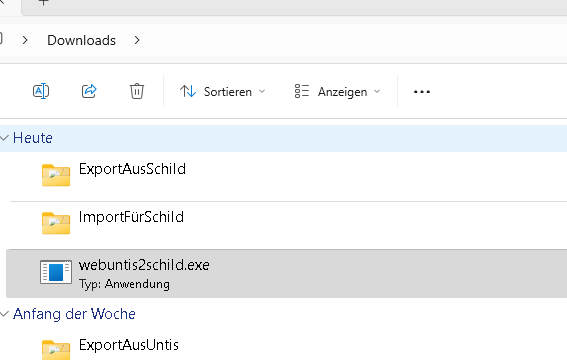
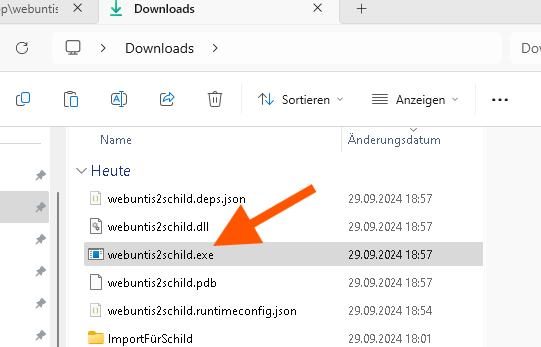
...

diff --git a/webuntis2schild/obj/Release/net8.0/webuntis2schild.AssemblyInfo.cs b/webuntis2schild/obj/Release/net8.0/webuntis2schild.AssemblyInfo.cs
@@ -14,7 +14,7 @@ using System.Reflection;
 [assembly: System.Reflection.AssemblyCompanyAttribute("webuntis2schild")]
 [assembly: System.Reflection.AssemblyConfigurationAttribute("Release")]
 [assembly: System.Reflection.AssemblyFileVersionAttribute("1.0.0.0")]
-[assembly: System.Reflection.AssemblyInformationalVersionAttribute("1.0.0+7ac4ffdd37fe900ff11da2ae1b1f50af1aedc1ce")]
+[assembly: System.Reflection.AssemblyInformationalVersionAttribute("1.0.0+13737d3e811f3c2f5cf7e19d9388972e9f9bf400")]
 [assembly: System.Reflection.AssemblyProductAttribute("webuntis2schild")]
 [assembly: System.Reflection.AssemblyTitleAttribute("webuntis2schild")]
 [assembly: System.Reflection.AssemblyVersionAttribute("1.0.0.0")]

diff --git a/README.md b/README.md
@@ -6,12 +6,12 @@ Mit **_Webuntis2SchILD_** können Daten von Untis und Webuntis nach SchILD über
 
 Der Übertrag der Leistungsdaten ist 3x im Jahr sinnvoll:
 
-- Statistik
-- Halbjahreszeugnis 
-- Jahreszeugnis
+1. Statistik
+2. Halbjahreszeugnis 
+3. Jahreszeugnis
 
 Vor den Zeugniskonferenzen kann **_Webuntis2SchILD_** wunderbar dafür eingesetzt werden, insbesondere Noten nach SchILD zu übertragen. Dazu müssen alle Lehrkräfte ihre Zeugnisnoten als Gesamtnoten in Webuntis eintragen. 
-Abwesenheiten werden ebenfalls nach SchILD übertragen. Der Einsatz eines weiteren Programms zum Einsammeln der Noten ist nicht mehr erforderlich.
+Abwesenheiten werden ebenfalls nach SchILD übertragen. Der Einsatz eines weiteren Programms zum Einsammeln der Noten ist nicht erforderlich.
 
 ![Gesamtnoten](https://github.com/stbaeumer/webuntis2schild/blob/main/bilder/gesamtnoten.png?raw=true)
 
@@ -32,7 +32,7 @@ Stellen Sie diese Ordnerstruktur in Ihrem Download-Ordner her:
 
 **So wird es gemacht:**
 
-Exportieren Sie die Datei `Student_<...>.csv` frisch aus Webuntis, indem Sie als Administrator:
+### Exportieren Sie die Datei `Student_<...>.csv` frisch aus Webuntis, indem Sie als Administrator:
 
 - Stammdaten > Schülerinnen
 - "Berichte" auswählen
@@ -41,7 +41,7 @@ Exportieren Sie die Datei `Student_<...>.csv` frisch aus Webuntis, indem Sie als
 
 ![Stammdaten](https://github.com/stbaeumer/webuntis2schild/blob/main/bilder/stammdaten.png?raw=true)
 
-Exportieren Sie die Datei `MarksPerLesson_<...>.csv` frisch aus Webuntis, indem Sie als Administrator:
+### Exportieren Sie die Datei `MarksPerLesson_<...>.csv` frisch aus Webuntis, indem Sie als Administrator:
 
 - Klassenbuch > Berichte klicken
 - Alle Klassen auswählen und ggfs. den Zeitraum einschränken
@@ -52,7 +52,7 @@ Exportieren Sie die Datei `MarksPerLesson_<...>.csv` frisch aus Webuntis, indem 
 
 ![Noten](https://github.com/stbaeumer/webuntis2schild/blob/main/bilder/noten.png?raw=true)
 
-Exportieren Sie die Datei `AbsencePerStudent_<...>.csv` frisch aus Webuntis, indem Sie als Administrator:
+### Exportieren Sie die Datei `AbsencePerStudent_<...>.csv` frisch aus Webuntis, indem Sie als Administrator:
 
 - Klassenbuch > Berichte klicken
 - Alle Klassen auswählen und als Zeitraum am besten die letzen vier Wochen wählen
@@ -63,7 +63,7 @@ Exportieren Sie die Datei `AbsencePerStudent_<...>.csv` frisch aus Webuntis, ind
 
 ![Klassenbuch Berichte](https://github.com/stbaeumer/webuntis2schild/blob/main/bilder/abwesenheiten.png?raw=true)
 
-Exportieren Sie die Datei `GPU006.TXT` frisch aus Webuntis, indem Sie als Administrator:
+### Exportieren Sie die Datei `GPU006.TXT` frisch aus Webuntis, indem Sie als Administrator:
 
 - Datei > Import/Export > Export TXT > Fächer klicken
 - Trennzeichen: Semikolon, Textbegrenzung: ", Encoding :UTF8
@@ -71,23 +71,24 @@ Exportieren Sie die Datei `GPU006.TXT` frisch aus Webuntis, indem Sie als Admini
 	
 ![Untis Export](https://github.com/stbaeumer/webuntis2schild/blob/main/bilder/gpu.png?raw=true)
 
-Exportieren Sie die Dateien `Faecher.dat`, `SchuelerLeistungsdaten.dat` und `SchuelerLernabschnittsdaten.dat` frisch aus Webuntis, indem Sie als Administrator:
+### Exportieren Sie die Dateien `Faecher.dat`, `SchuelerLeistungsdaten.dat` und `SchuelerLernabschnittsdaten.dat` frisch aus Webuntis, indem Sie als Administrator:
 
 - Datenaustausch > Schnittstelle > Export klicken.
 - Alle Dateien abhaken und dann die drei Dateien `Faecher.dat`, `SchuelerLeistungsdaten.dat` und `SchuelerLernabschnittsdaten.dat` auswählen
 - Den Export-Ordner auswählen
 - Die Dateien im Ordner `ExportAusSchild` speichern"); 
 
-## Installation
+## Herunterladen des Programms
 
-Das Programm kann in github heruntergeladen werden. Eine Installation ist nicht notwendig. 
-Das Programm kann mit Doppelklick gestartet werden:
+Laden Sie alle Dateien aus dem *exe*-Ordner herunter. Also: *webuntis2schild.exe*, *webuntis2schild.dll* usw. Eine Installation ist nicht notwendig. 
+**_Webuntis2SchILD_** kann mit Doppelklick gestartet werden:
 
 ![Programm starten](https://github.com/stbaeumer/webuntis2schild/blob/main/bilder/exe.png?raw=true)
 
+
 ## Programmstart
 
-Das Programm kann mit Doppelklick gestartet werden. Es öffnet sich ein Terminalfenster, in dem die Ausführung des Programms angezeigt wird.
+**_Webuntis2SchILD_** kann mit Doppelklick gestartet werden. Es öffnet sich ein Terminalfenster, in dem die Ausführung des Programms angezeigt wird.
 Nacheinander werden alle o.g. Dateien eingelesen.  
 
 Nach dem Einlesen haben Sie die Möglichkeit gewünschte Klassen anzugeben: 
@@ -99,6 +100,7 @@ Beispiele:
 - `5a,5b,5c` sucht nach Klassen 5a, 5b und 5c
 - `5` sucht nach allen Klassen, die mit 5 beginnen
 - `5a` sucht nach Klasse 5a
+- ENTER ohne weitere Angaben sucht nach allen Klassen
 
 Im Anschluss werden die relevanten Dateien im Ordner `ExportFürSchild` abgelegt:
 
